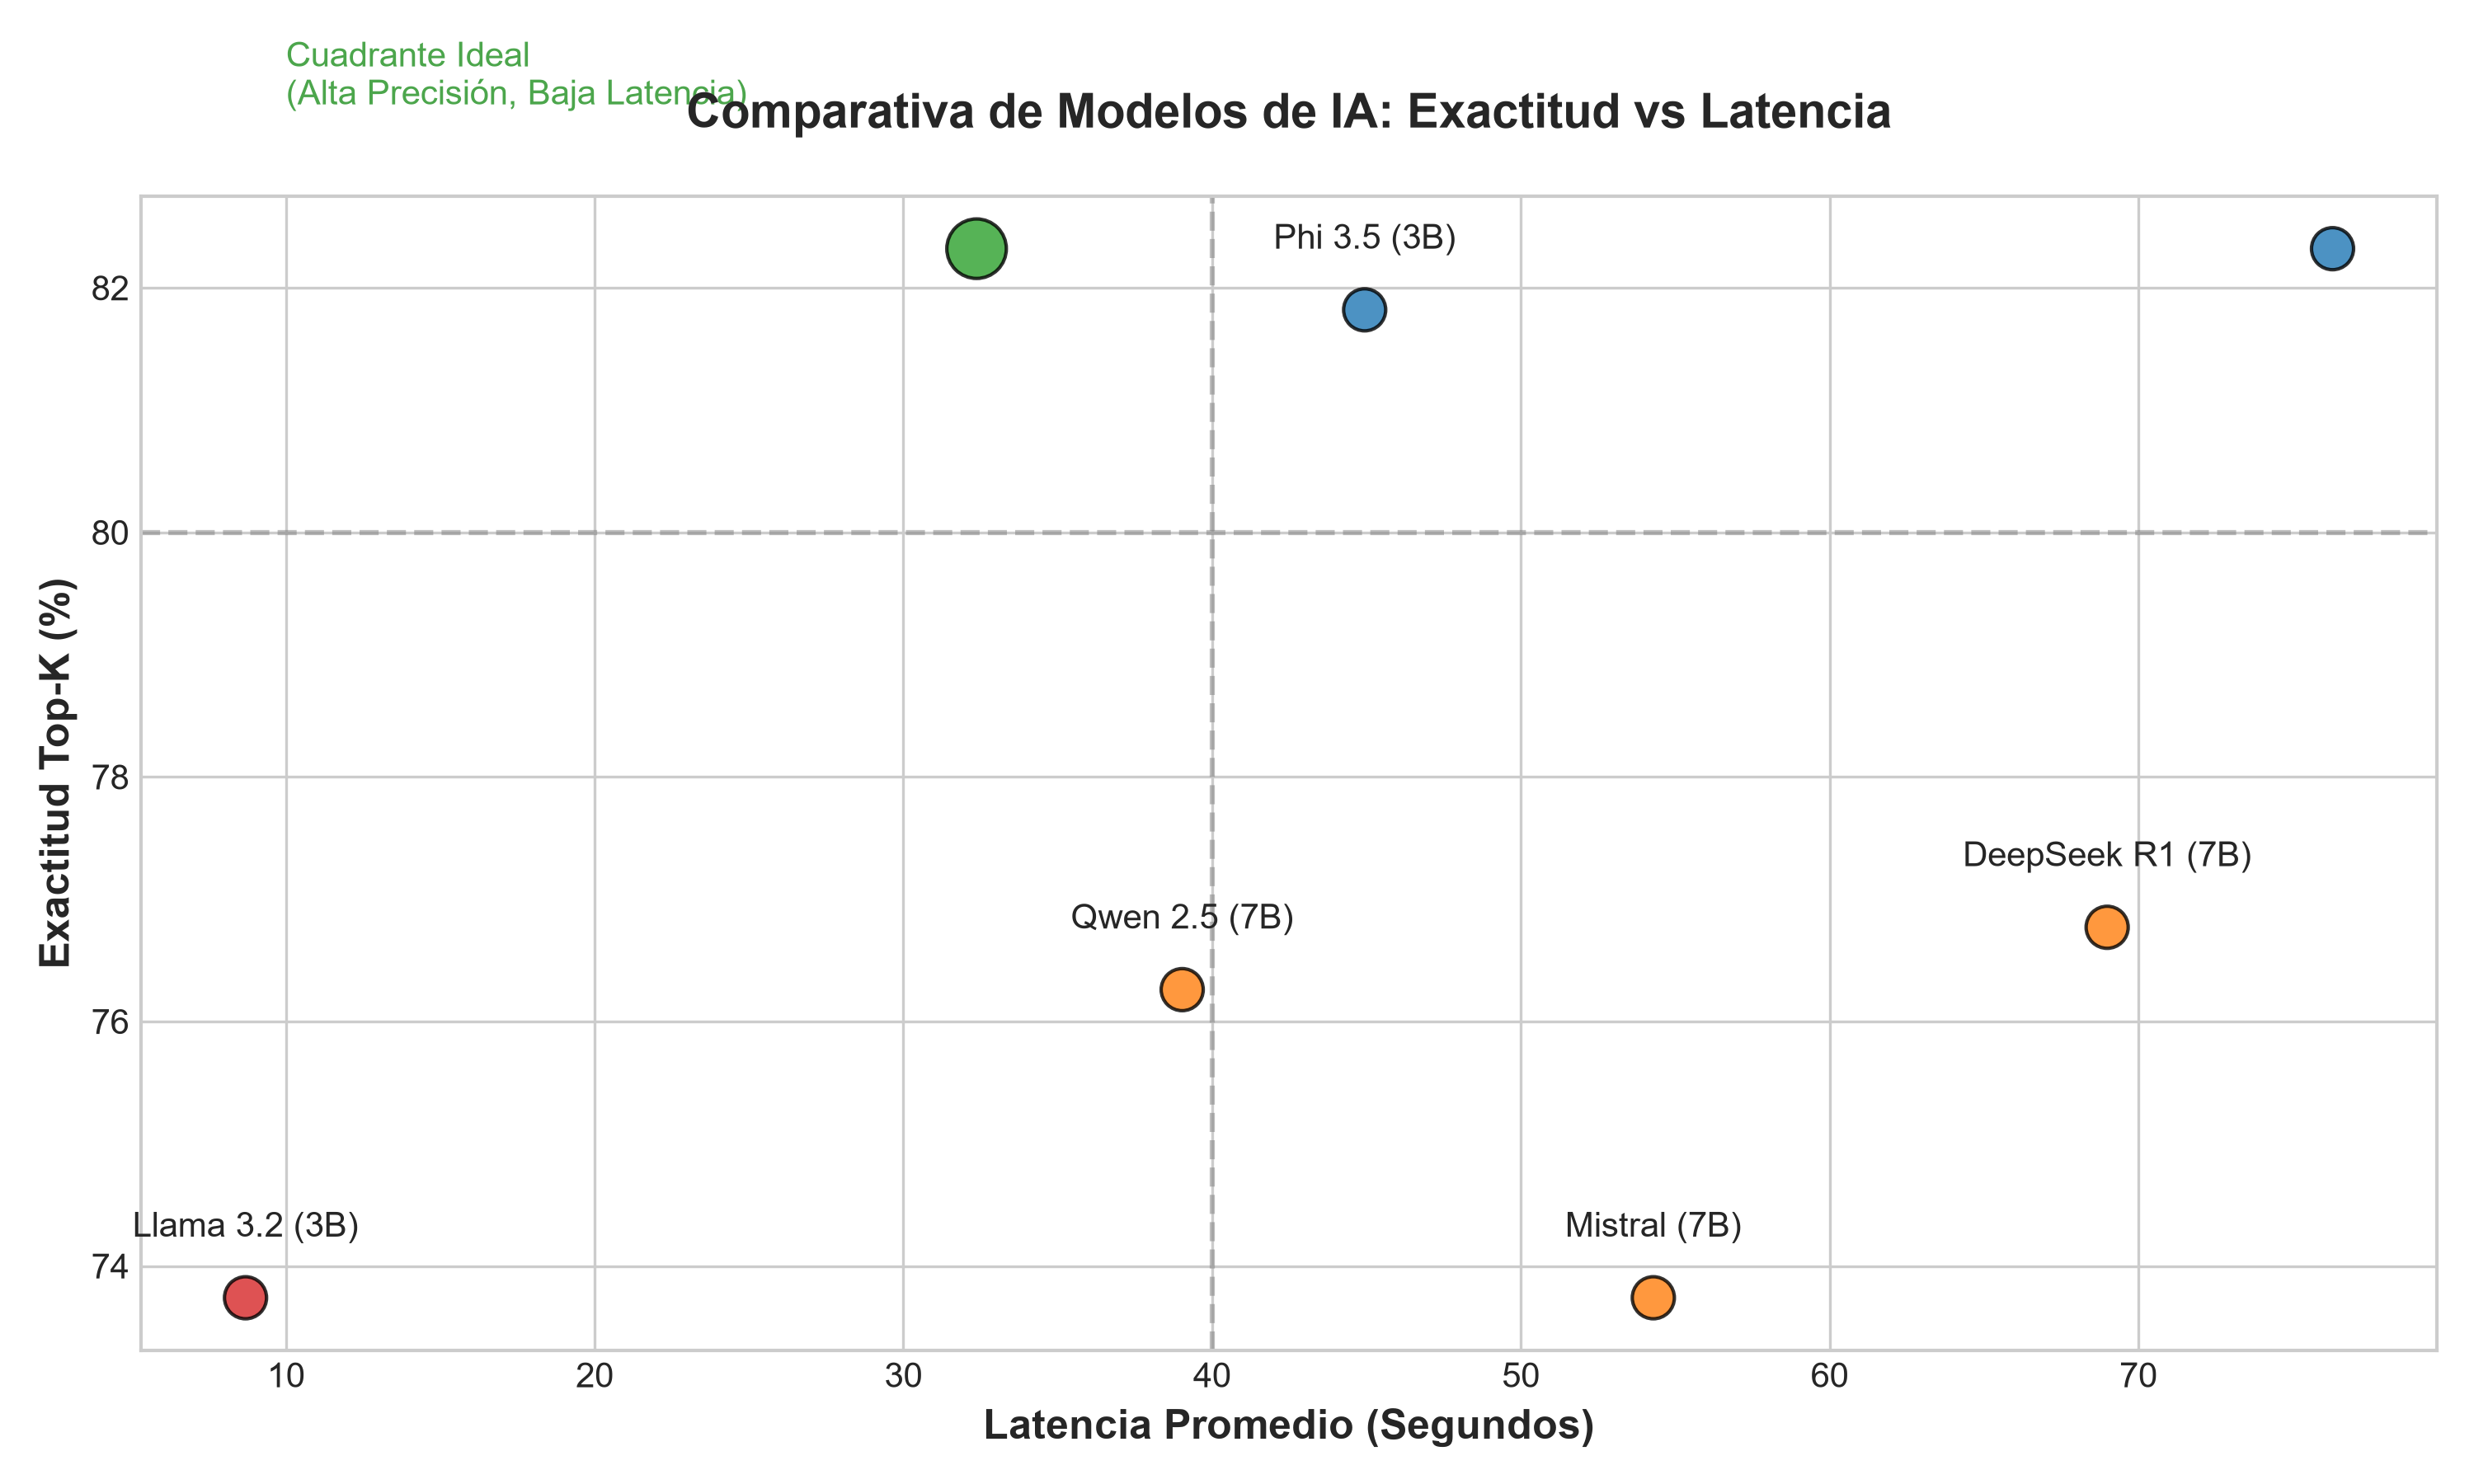
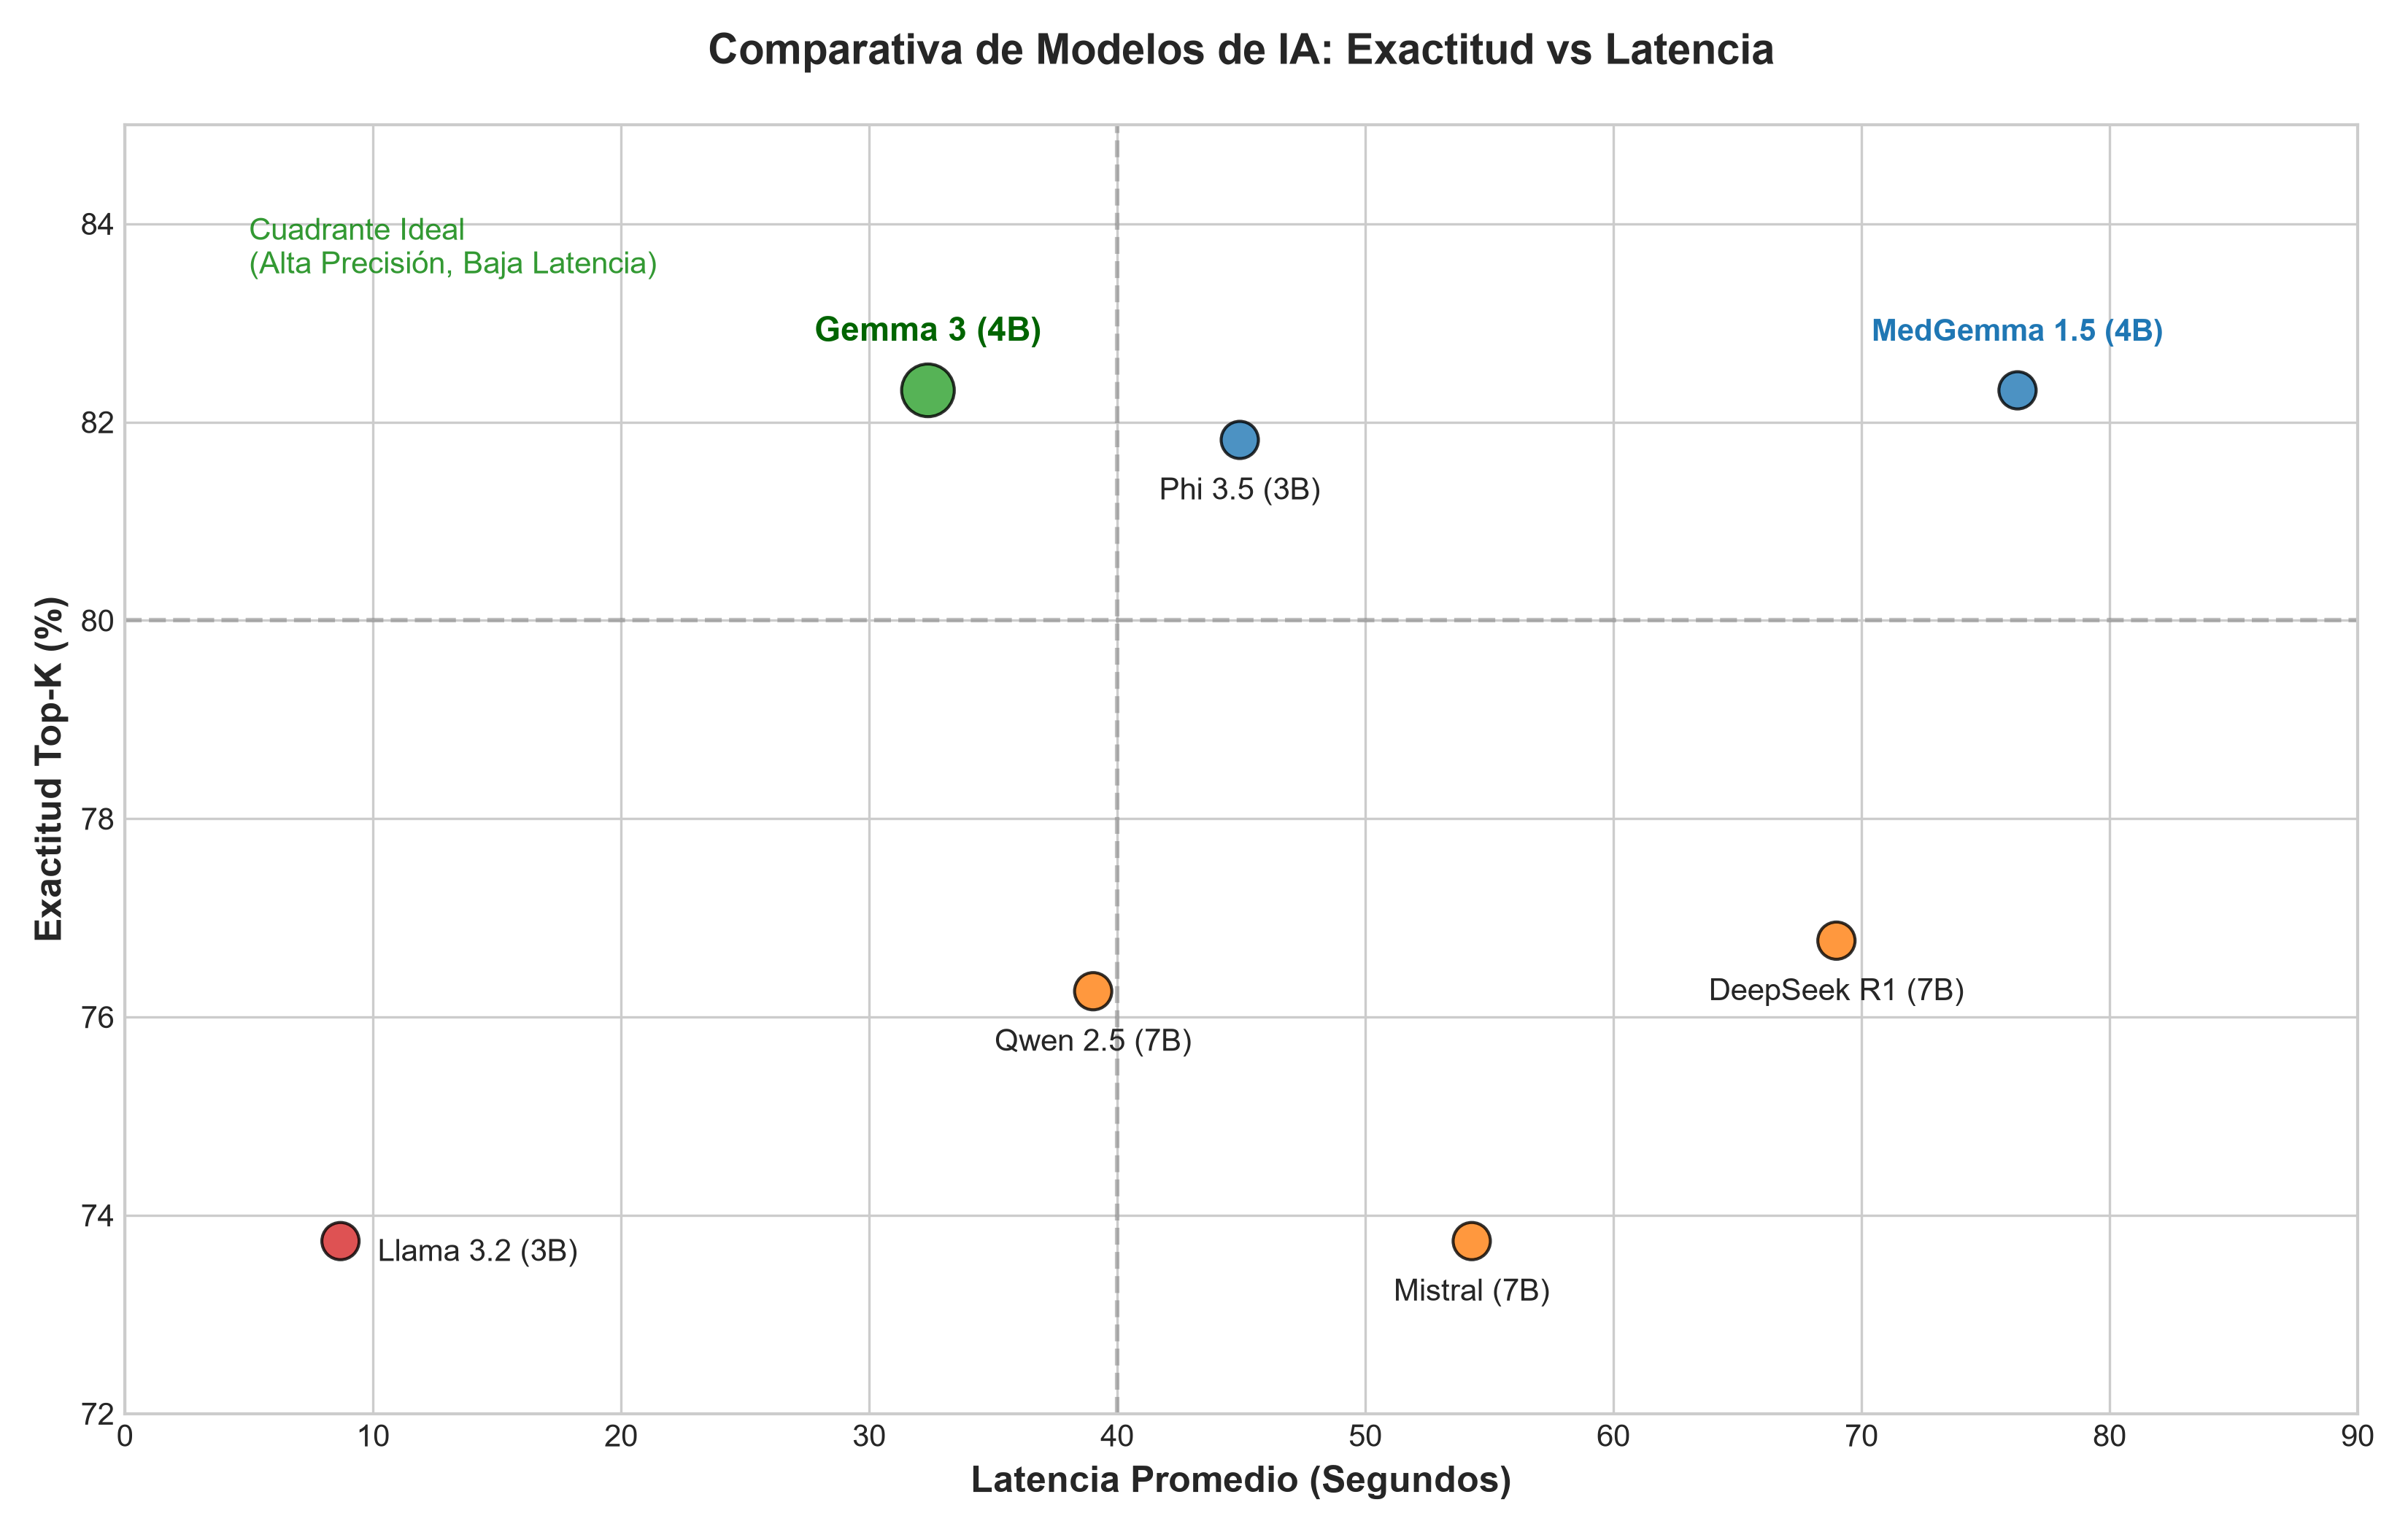
GraficosModelosOR

diff --git a/modeloElegidoORPay.py b/modeloElegidoORPay.py
@@ -1,0 +1,61 @@
+import matplotlib.pyplot as plt
+
+# ==========================================
+# 1. DATOS DE LOS MODELOS (RESTANTES)
+# ==========================================
+modelos = [
+    'MiniMax M3', 'DeepSeek V4 Flash', 'Claude Sonnet 4.6', 'GPT 5.5', 'Gemini 3 Flash', 'GLM 5.2'
+]
+
+latencia = [13.73, 10.19, 9.32, 8.30, 3.62, 13.35]
+exactitud = [73.23, 72.22, 71.21, 68.18, 65.66, 65.66]
+
+# Colores distintos para cada modelo
+colores = ['#d62728', '#9467bd', '#8c564b', '#e377c2', '#17becf', '#7f7f7f']
+tamanos = [200, 200, 200, 200, 200, 200] 
+
+# ==========================================
+# 2. CONFIGURACIÓN DEL GRÁFICO
+# ==========================================
+plt.figure(figsize=(11, 7))
+plt.style.use('seaborn-v0_8-whitegrid')
+
+# Crear el gráfico de dispersión
+plt.scatter(latencia, exactitud, c=colores, s=tamanos, alpha=0.8, edgecolors='black')
+
+# Forzar los márgenes ajustados al nuevo grupo de datos
+plt.xlim(0, 18)   # La latencia máxima es 13.73, 18 deja buen margen
+plt.ylim(63, 76)  # La exactitud va de 65.66 a 73.23
+
+# Etiquetas personalizadas para que no choquen
+for i, modelo in enumerate(modelos):
+    if modelo in ['MiniMax', 'DeepSeek', 'Claude1']:
+        # Textos arriba para los modelos con mayor exactitud
+        plt.annotate(modelo, (latencia[i], exactitud[i] + 0.4), fontsize=10, ha='center', fontweight='bold', color=colores[i])
+    elif modelo == 'Gemini':
+        # Texto a la derecha para el más rápido (evita chocar con el borde o línea guía)
+        plt.annotate(modelo, (latencia[i] + 0.4, exactitud[i] - 0.1), fontsize=10, ha='left', fontweight='bold', color=colores[i])
+    else:
+        # Textos abajo para el resto (GPT2, Z)
+        plt.annotate(modelo, (latencia[i], exactitud[i] - 0.7), fontsize=10, ha='center', fontweight='bold', color=colores[i])
+
+# ==========================================
+# 3. DETALLES ESTÉTICOS (Formato Tesis)
+# ==========================================
+plt.title('Comparativa de Modelos de IA: Exactitud vs Latencia (Grupo 2)', fontsize=14, pad=20, fontweight='bold')
+plt.xlabel('Latencia Promedio (Segundos)', fontsize=12, fontweight='bold')
+plt.ylabel('Exactitud Top-K (%)', fontsize=12, fontweight='bold')
+
+# Marcar el cuadrante ideal (ajustado para este grupo)
+# Umbral: Menos de 10 segundos, Más de 70% de exactitud
+plt.axvline(x=10, color='gray', linestyle='--', alpha=0.5)
+plt.axhline(y=70, color='gray', linestyle='--', alpha=0.5)
+
+# Texto de guía en el cuadrante verde
+plt.text(0.5, 74.8, 'Cuadrante Ideal\n(Alta Precisión, Baja Latencia)', color='green', fontsize=10, alpha=0.8)
+
+# Guardar y mostrar
+plt.tight_layout()
+plt.savefig('grafico_modelos_OR_pay.png', dpi=300) 
+print("Gráfico guardado como 'grafico_modelos_OR_pay.png'")
+plt.show()

diff --git a/modeloElegidoORFree.py b/modeloElegidoORFree.py
@@ -1,0 +1,59 @@
+import matplotlib.pyplot as plt
+
+# ==========================================
+# 1. DATOS DE LOS MODELOS (Día 4)
+# ==========================================
+modelos = [
+    'OWL', 'Nemotron 3 Ultra (550B)', 'Cohere'
+]
+
+latencia = [8.3, 44.24, 12.02]
+exactitud = [68.18, 69.7, 70.71]
+
+colores = ['#2ca02c', '#1f77b4', '#ff7f0e']
+tamanos = [300, 150, 150] 
+
+# ==========================================
+# 2. CONFIGURACIÓN DEL GRÁFICO
+# ==========================================
+plt.figure(figsize=(11, 7))
+plt.style.use('seaborn-v0_8-whitegrid')
+
+# Crear el gráfico de dispersión
+plt.scatter(latencia, exactitud, c=colores, s=tamanos, alpha=0.8, edgecolors='black')
+
+# Forzar los márgenes para dar espacio al texto ajustado a los nuevos datos
+plt.xlim(0, 55)   # Límite ajustado para incluir la latencia de 44.24
+plt.ylim(65, 74)  # Límite ajustado para incluir la exactitud de 68-71%
+
+# Etiquetas personalizadas para que no choquen
+for i, modelo in enumerate(modelos):
+    if modelo == 'Cohere':
+        # Texto arriba para el de mayor exactitud
+        plt.annotate(modelo, (latencia[i], exactitud[i] + 0.4), fontsize=11, ha='center', fontweight='bold', color='#ff7f0e')
+    elif modelo == 'Nemotron 3 Ultra (550B)':
+        # Texto arriba
+        plt.annotate(modelo, (latencia[i], exactitud[i] + 0.4), fontsize=10, ha='center', fontweight='bold', color='#1f77b4')
+    elif modelo == 'OWL':
+        # Texto abajo
+        plt.annotate(modelo, (latencia[i], exactitud[i] - 0.6), fontsize=10, ha='center', fontweight='bold', color='#2ca02c')
+
+# ==========================================
+# 3. DETALLES ESTÉTICOS (Formato Tesis)
+# ==========================================
+plt.title('Comparativa de Modelos de IA: Exactitud vs Latencia', fontsize=14, pad=20, fontweight='bold')
+plt.xlabel('Latencia Promedio (Segundos)', fontsize=12, fontweight='bold')
+plt.ylabel('Exactitud Top-K (%)', fontsize=12, fontweight='bold')
+
+# Marcar el cuadrante ideal (ajustado a los nuevos rangos)
+plt.axvline(x=25, color='gray', linestyle='--', alpha=0.5) # Separa los modelos rápidos del lento
+plt.axhline(y=70, color='gray', linestyle='--', alpha=0.5) # Marca el umbral de 70% de exactitud
+
+# Texto de guía en el cuadrante verde (ajustado a las nuevas coordenadas)
+plt.text(2, 73, 'Cuadrante Ideal\n(Alta Precisión, Baja Latencia)', color='green', fontsize=10, alpha=0.8)
+
+# Guardar y mostrar
+plt.tight_layout()
+plt.savefig('grafico_modelos_OR_free.png', dpi=300) 
+print("Gráfico guardado como 'grafico_modelos_OR_free.png'")
+plt.show()

diff --git a/codificacionCSV.py b/codificacionCSV.py
@@ -146,7 +146,7 @@ def procesar_csv(archivo_entrada, archivo_salida):
 # ==========================================
 if __name__ == '__main__':
     # Nombres de tus archivos
-    ARCHIVO_ENTRADA = 'resultados/resultadosQwen.csv'
-    ARCHIVO_SALIDA = 'codificados/codificadosQwen.csv'
+    ARCHIVO_ENTRADA = 'OpenRouter/resultados/openRouterZ.csv'
+    ARCHIVO_SALIDA = 'OpenRouter/codificados/codificadosZ.csv'
     
     procesar_csv(ARCHIVO_ENTRADA, ARCHIVO_SALIDA)

diff --git a/comparaCodigos.py b/comparaCodigos.py
@@ -5,8 +5,8 @@ import csv
 # CONFIGURACIÓN DE ARCHIVOS
 # ==========================================
 ARCHIVO_JSON_REALES = 'datos_cmd_limpio.json'
-ARCHIVO_CSV_GENERADOS = 'codificados/codificadosQwen.csv'
-ARCHIVO_REPORTE = 'reporte/reporteQwen.csv'
+ARCHIVO_CSV_GENERADOS = 'OpenRouter/codificados/codificadosZ.csv'
+ARCHIVO_REPORTE = 'OpenRouter/reportes/reporteZ.csv'
 
 def cargar_reales(ruta_json):
     """Carga los datos reales desde el archivo JSON."""